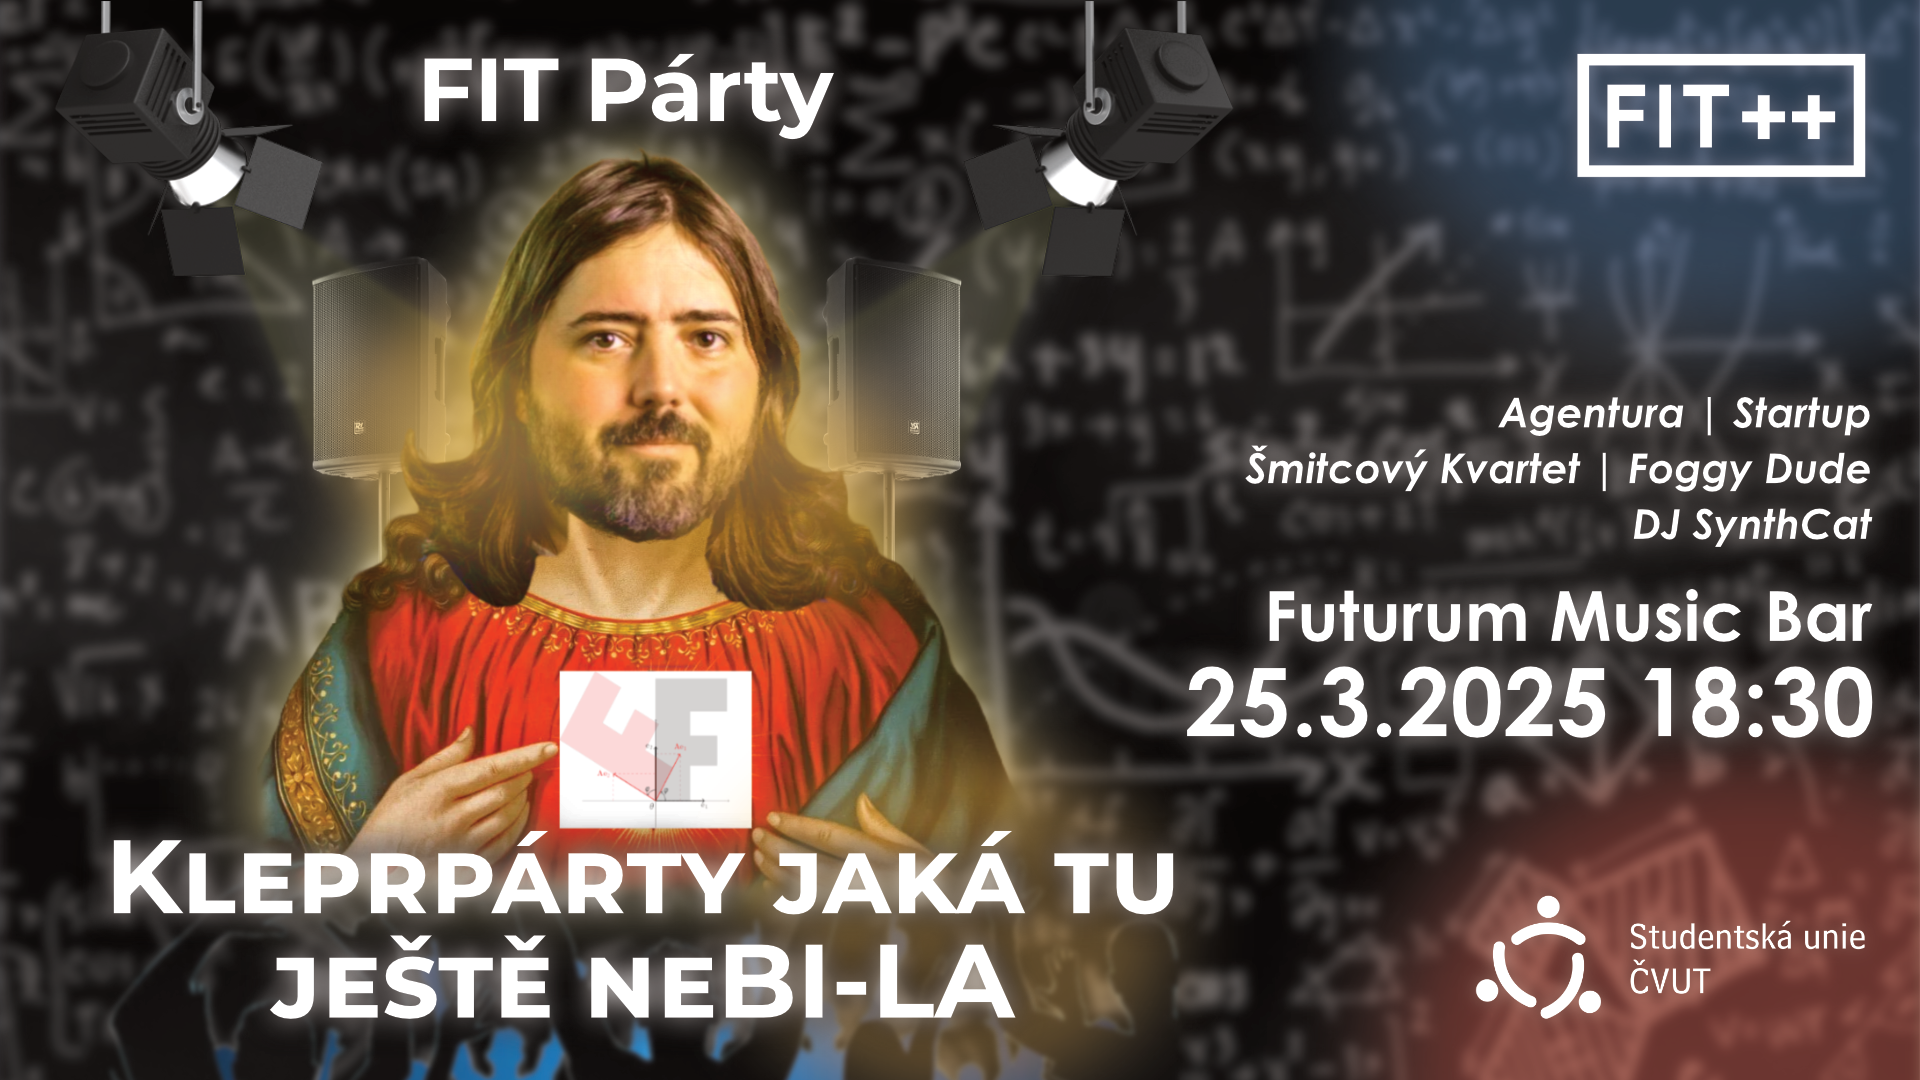
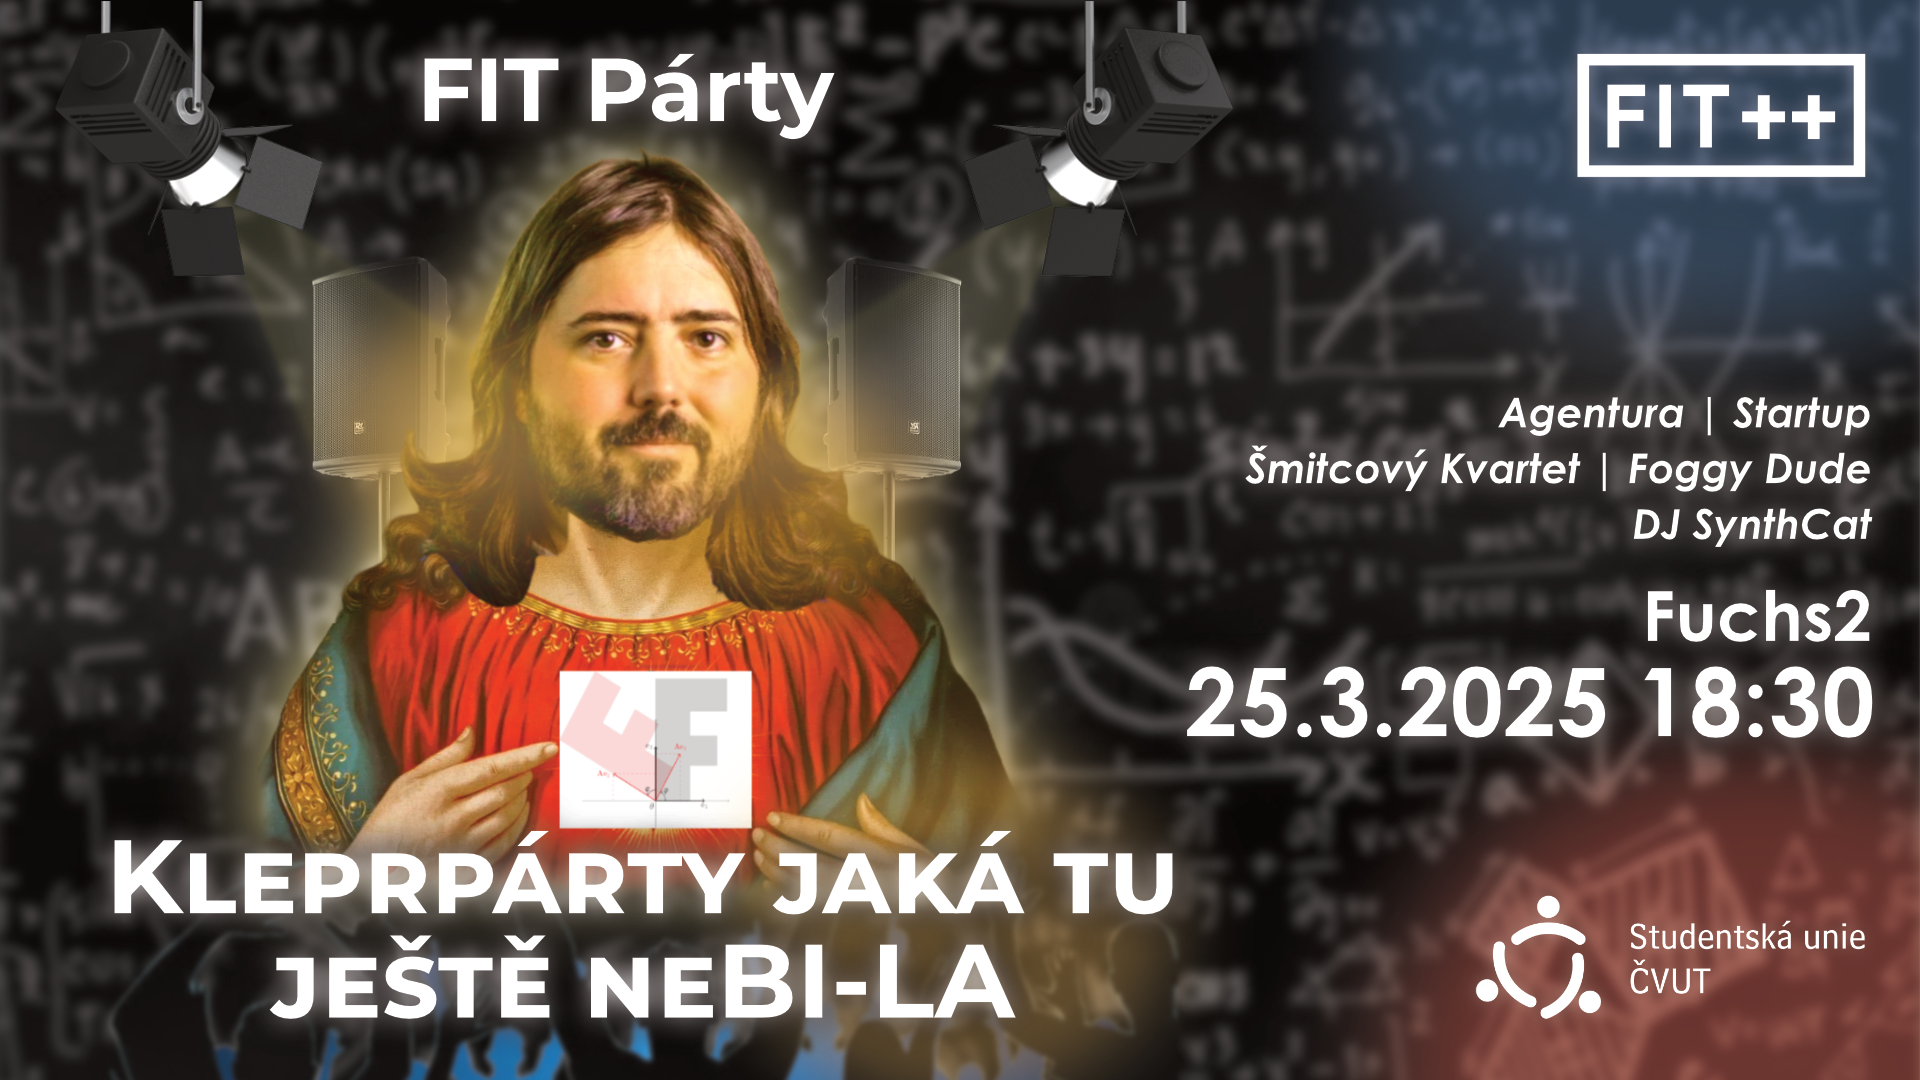
AKCE: Fix Orienťák a FIT Párty

Changed region(s): [[0.6562, 0.55, 0.9688, 0.6111]]

diff --git a/_events/2025-04-09-orientacni-beh-fitpp-25.md b/_events/2025-04-09-orientacni-beh-fitpp-25.md
@@ -7,12 +7,15 @@ categories:
 tags:
   - Orientační běh
   - Akce
-img: "/assets/images/event/orientacni-beh-fitpp-25.webp"
+img: "/assets/images/event/orientacni-beh-fitpp-25.png"
 ---
 
+#### CZ
 Rádi bychom vás pozvali na třetí ročník orienťáku organizovaného studentským klubem FIT++. Nevadí, že jste mapu nikdy nedrželi, přijďte sami nebo vezměte parťáka a pojďte se proběhnout po kampusu. Letos jsme zmapovali zase další kousek, tak se podíváte jinam než minule.
 
+#### EN
 We would like to invite you to the third year of annual orienteering race organized by the student club FIT++. It doesn't matter if you've never seen an orienteering map before, come alone or grab a partner and go for a run around the campus. We have extended the mapped area, so you will get to see new places!
 
+#### Links
 [Přihlašovací formulář/Signup form](https://shorturl.at/MHFXr)  
 [Propozice/Outlines](https://drive.google.com/file/d/1WZx1MgNuEc-bDM7CS_p7yP6pT40AjTWN/view?usp=sharing)  

diff --git a/_events/2025-03-25-fit-party_25.md b/_events/2025-03-25-fit-party_25.md
@@ -12,10 +12,11 @@ tags:
 img: "/assets/images/event/fit-party_25.png"
 ---
 
+***DŮLEŽITÁ ZMĚNA***: Z provozních důvodu se FIT Párty přesunula z Futura do klubu **Fuchs2**.
 
 Vítáme vás všechny v novém semestru, ve kterém vás kromě učení, testů a zkoušek, čeká také tradiční **FIT Párty**. Tentokrát nás čeká **Kleprpárty jaká tu ještě neBI-LA**!
 
-Jako již obvykle se ta největší akce letního semestru uskuteční ve **Futuru**, kde potěší naše ušní bubínky DJové a kapely složené ze studentů ČVUT, ať už bývalých, či současných.
+Největší akce letního semestru se uskuteční v klubu **Fuchs2**, kde potěší naše ušní bubínky DJové a kapely složené ze studentů ČVUT, ať už bývalých, či současných.
 
 Tak doraz i s kamarády **25. března**, dveře se otevírají v **18:30**! 🥃
 
